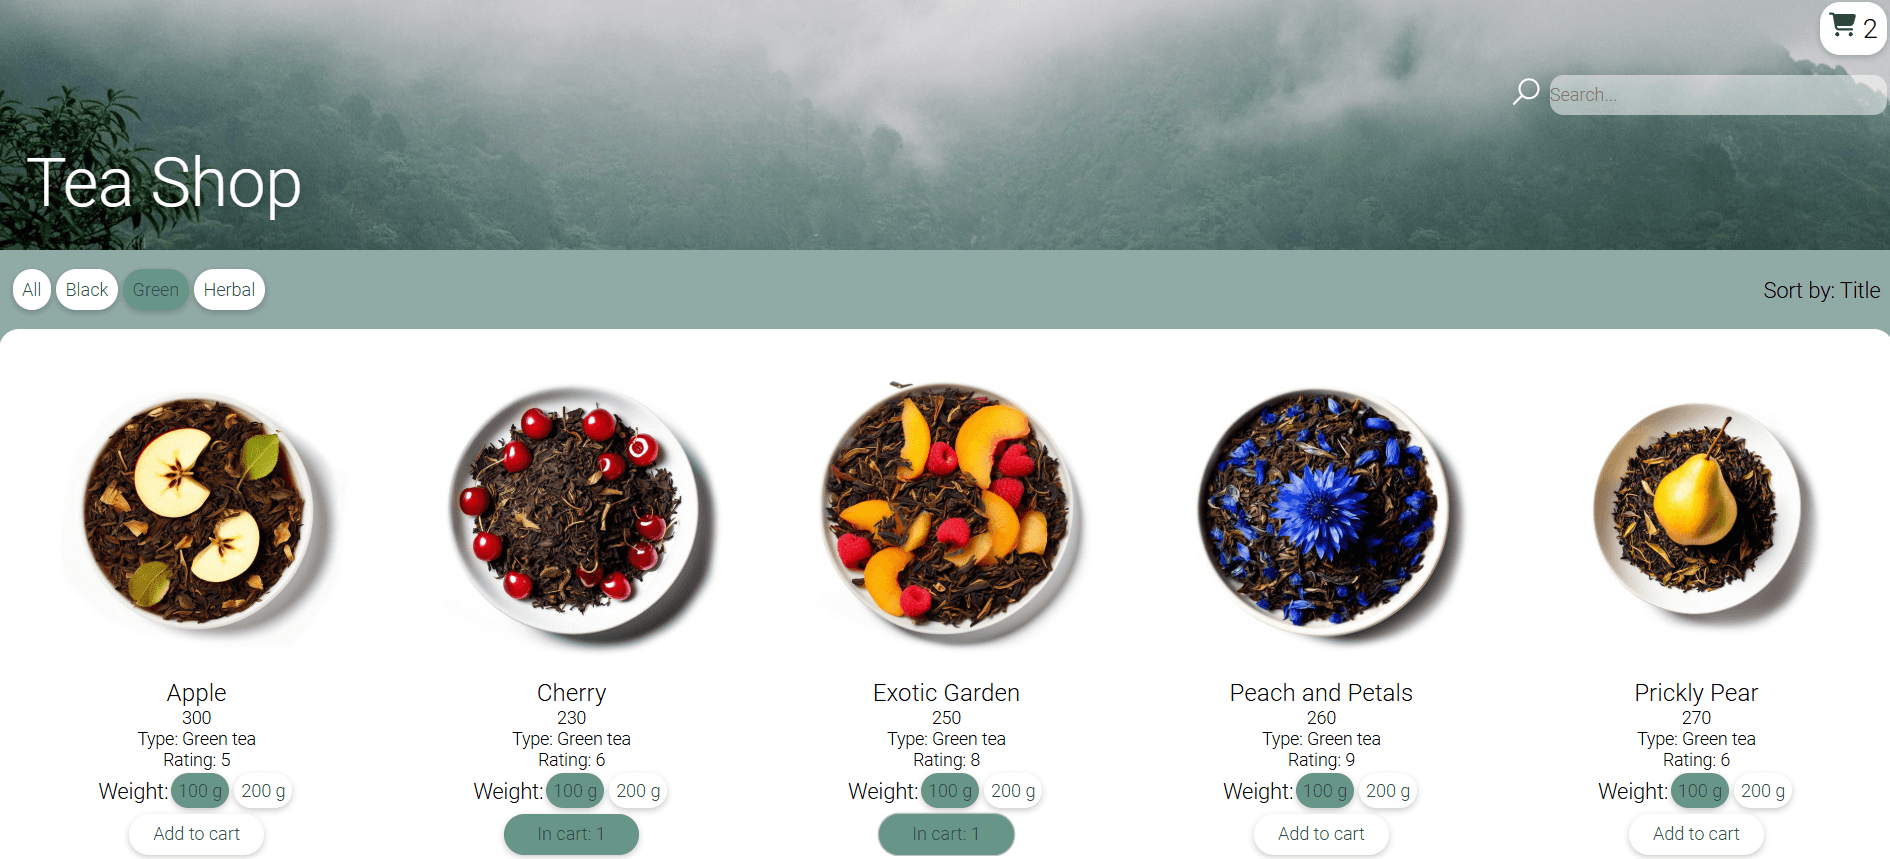
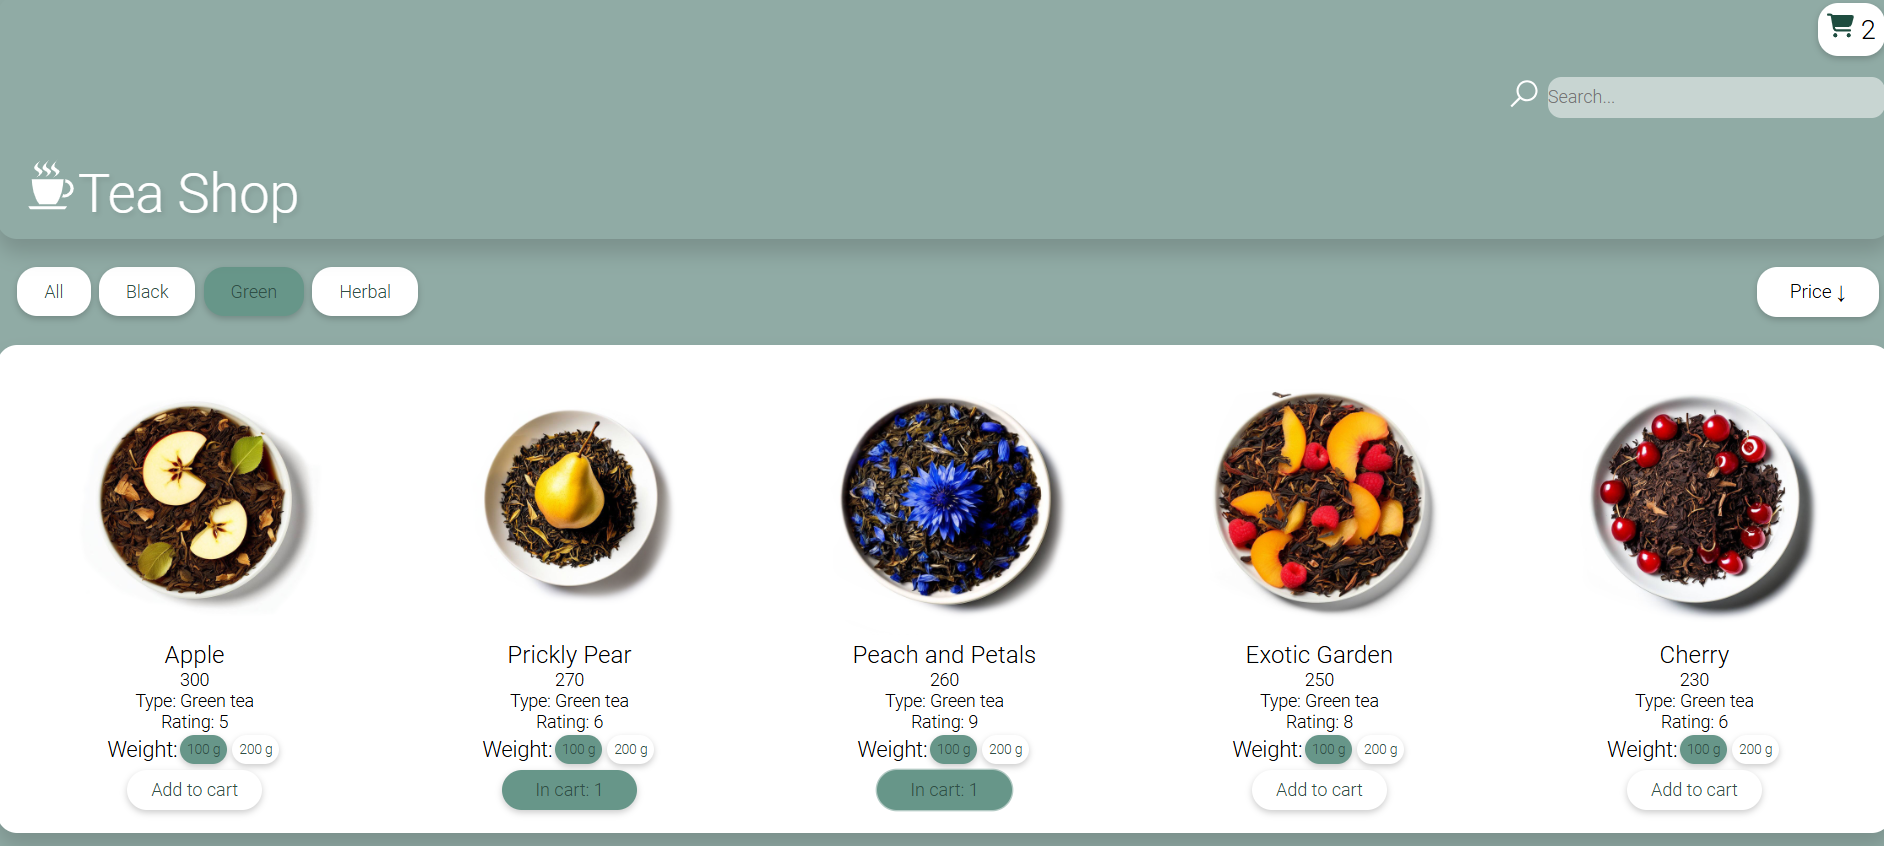
add new project

diff --git a/src/constants/constants.ts b/src/constants/constants.ts
@@ -1,6 +1,8 @@
 import { IIcons, IProjects } from './types';
 
 export const ICONS: IIcons[] = [
+  { src: '/assets/icons/html-icon.svg', alt: 'HTML Logo', title: 'HTML 5' },
+  { src: '/assets/icons/css-icon.svg', alt: 'CSS Logo', title: 'CSS 3' },
   { src: '/assets/icons/js-icon.svg', alt: 'JavaScript Logo', title: 'JavaScript' },
   { src: '/assets/icons/ts-icon.svg', alt: 'TypeScript Logo', title: 'TypeScript' },
   { src: '/assets/icons/react-icon.svg', alt: 'React Logo', title: 'React' },
@@ -51,5 +53,15 @@ export const PROJECTS: IProjects[] = [
       'Для получения списка товаров и управления состоянием используется Redux toolkit. Фильтрация товаров по категориям, цене, названию, рейтингу. Поиск, пагинация, добавление в корзину (localStorage).',
     githubLink: 'https://github.com/TatyanaZakiryanova/tea-shop',
     deployLink: 'https://teaonlinestore.netlify.app/',
+  },
+  {
+    title: 'CRM Dashboard',
+    previewSrc: '/assets/projects/dashboard-preview.png',
+    description: 'CRM дашборд с возможностью сортировки таблицы.',
+    technologies: 'TS, React, Sass',
+    details:
+      'Создан небольшой UI kit для использования в разных проектах. В таблице реализована сортировка по столбцам и поиск.',
+    githubLink: 'https://github.com/TatyanaZakiryanova/crm-dashboard',
+    deployLink: 'https://tatyanazakiryanova.github.io/crm-dashboard/',
   },
 ];

diff --git a/src/components/Contacts.tsx b/src/components/Contacts.tsx
@@ -6,12 +6,6 @@ const Contacts = () => {
           <h2 className="text-center text-3xl">Контакты</h2>
           <div className="mt-10 flex flex-col gap-5 lg:flex-row">
             <div className="flex items-center justify-center gap-1">
-              <img src="/assets/icons/phone-icon.svg" alt="Phone" className="h-6 w-6" />
-              <a href="tel:+79196970254" target="_blank" rel="noopener noreferrer">
-                +7 919 697 02 54
-              </a>
-            </div>
-            <div className="flex items-center justify-center gap-1">
               <img src="/assets/icons/mail-icon.svg" alt="E-mail" className="h-8 w-8" />
               <a href="mailto:taZakiryanova@mail.ru" target="_blank" rel="noopener noreferrer">
                 taZakiryanova@mail.ru
